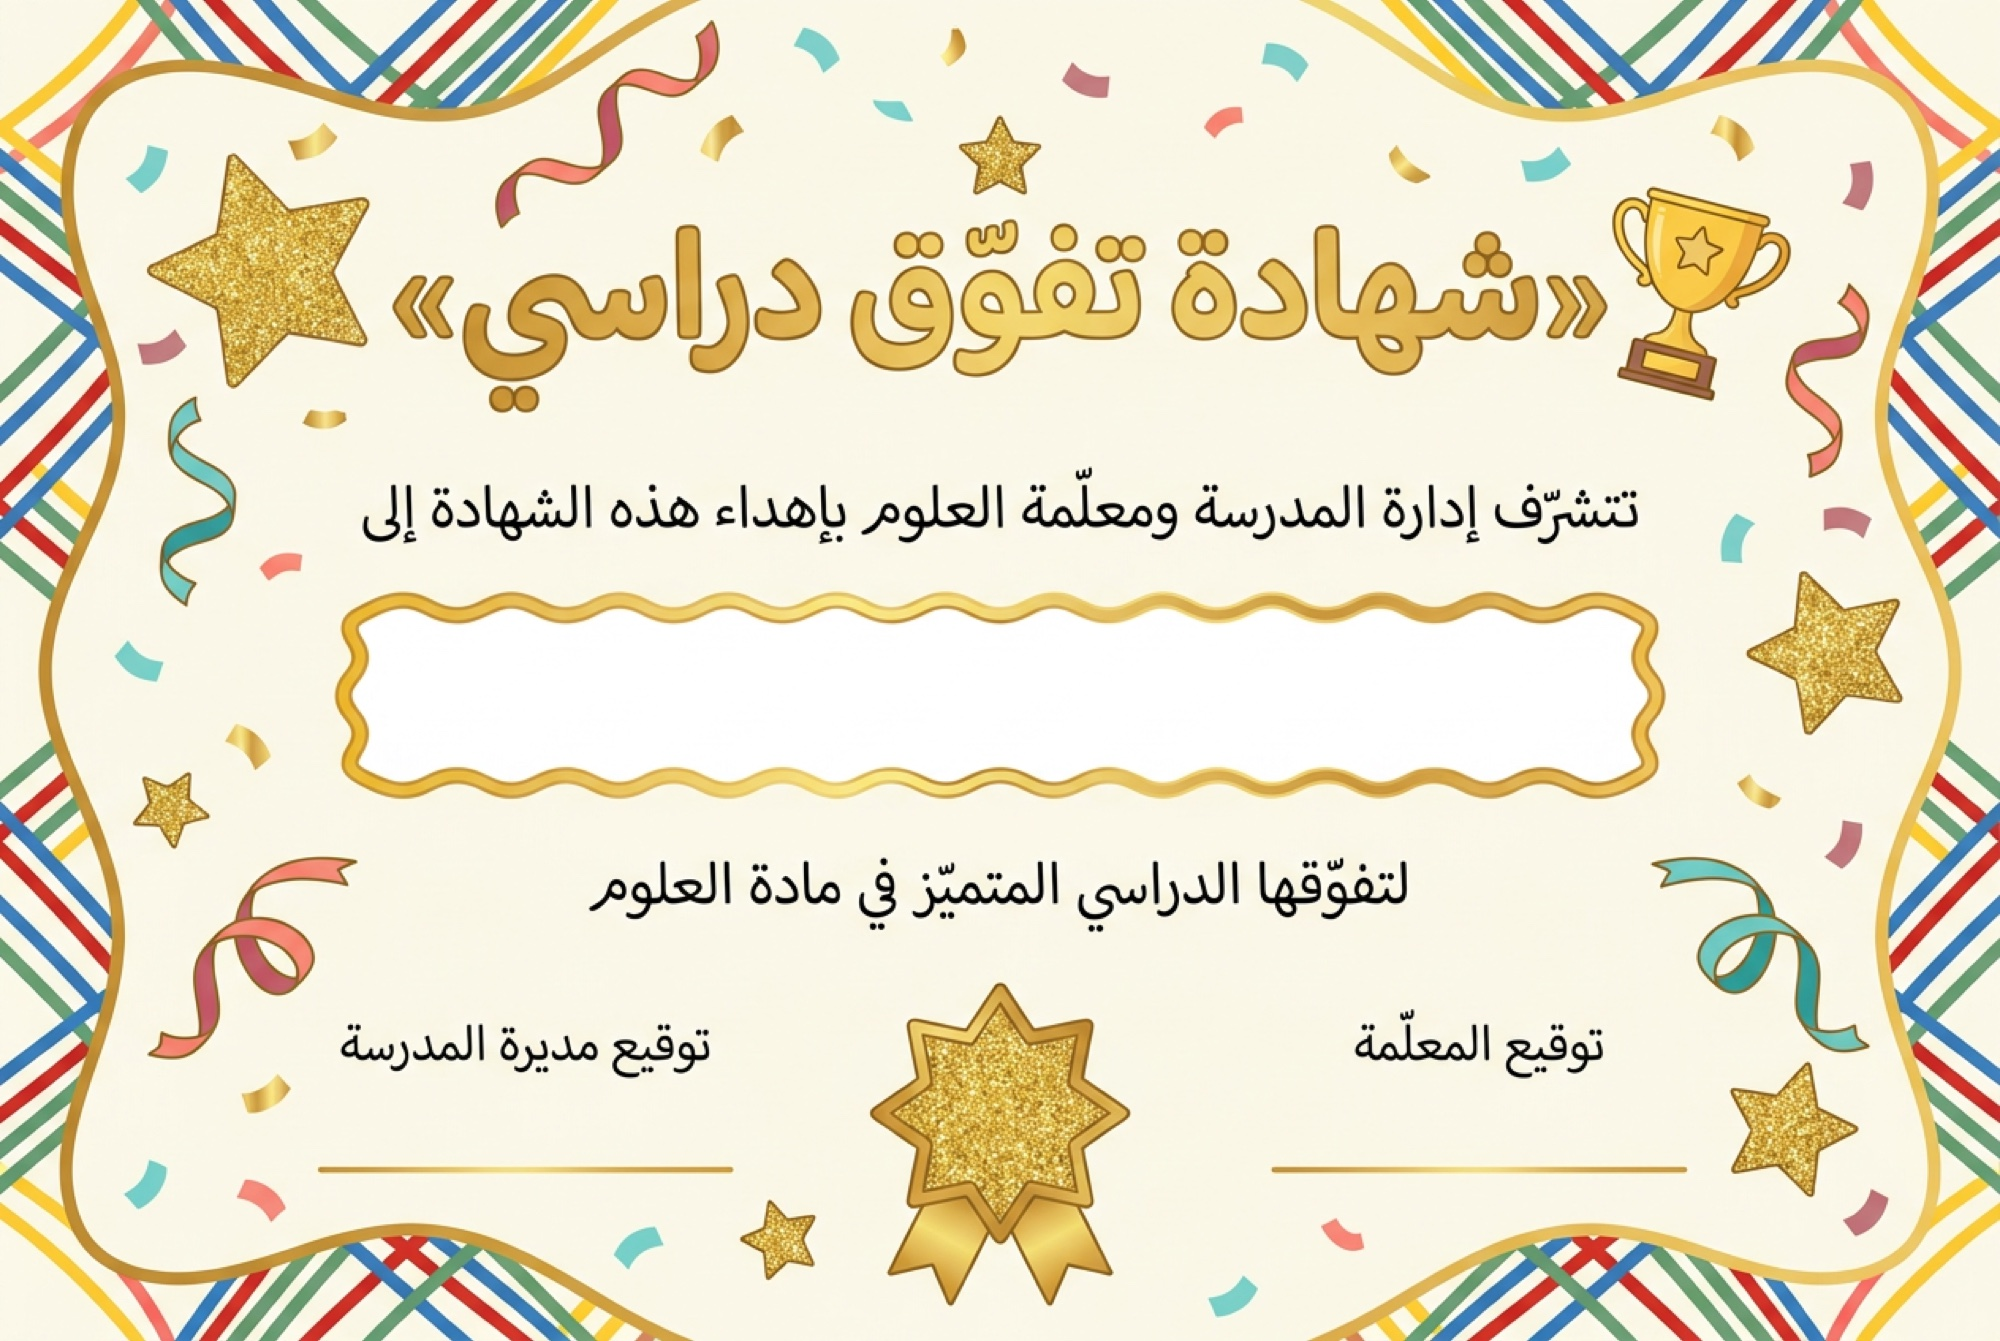
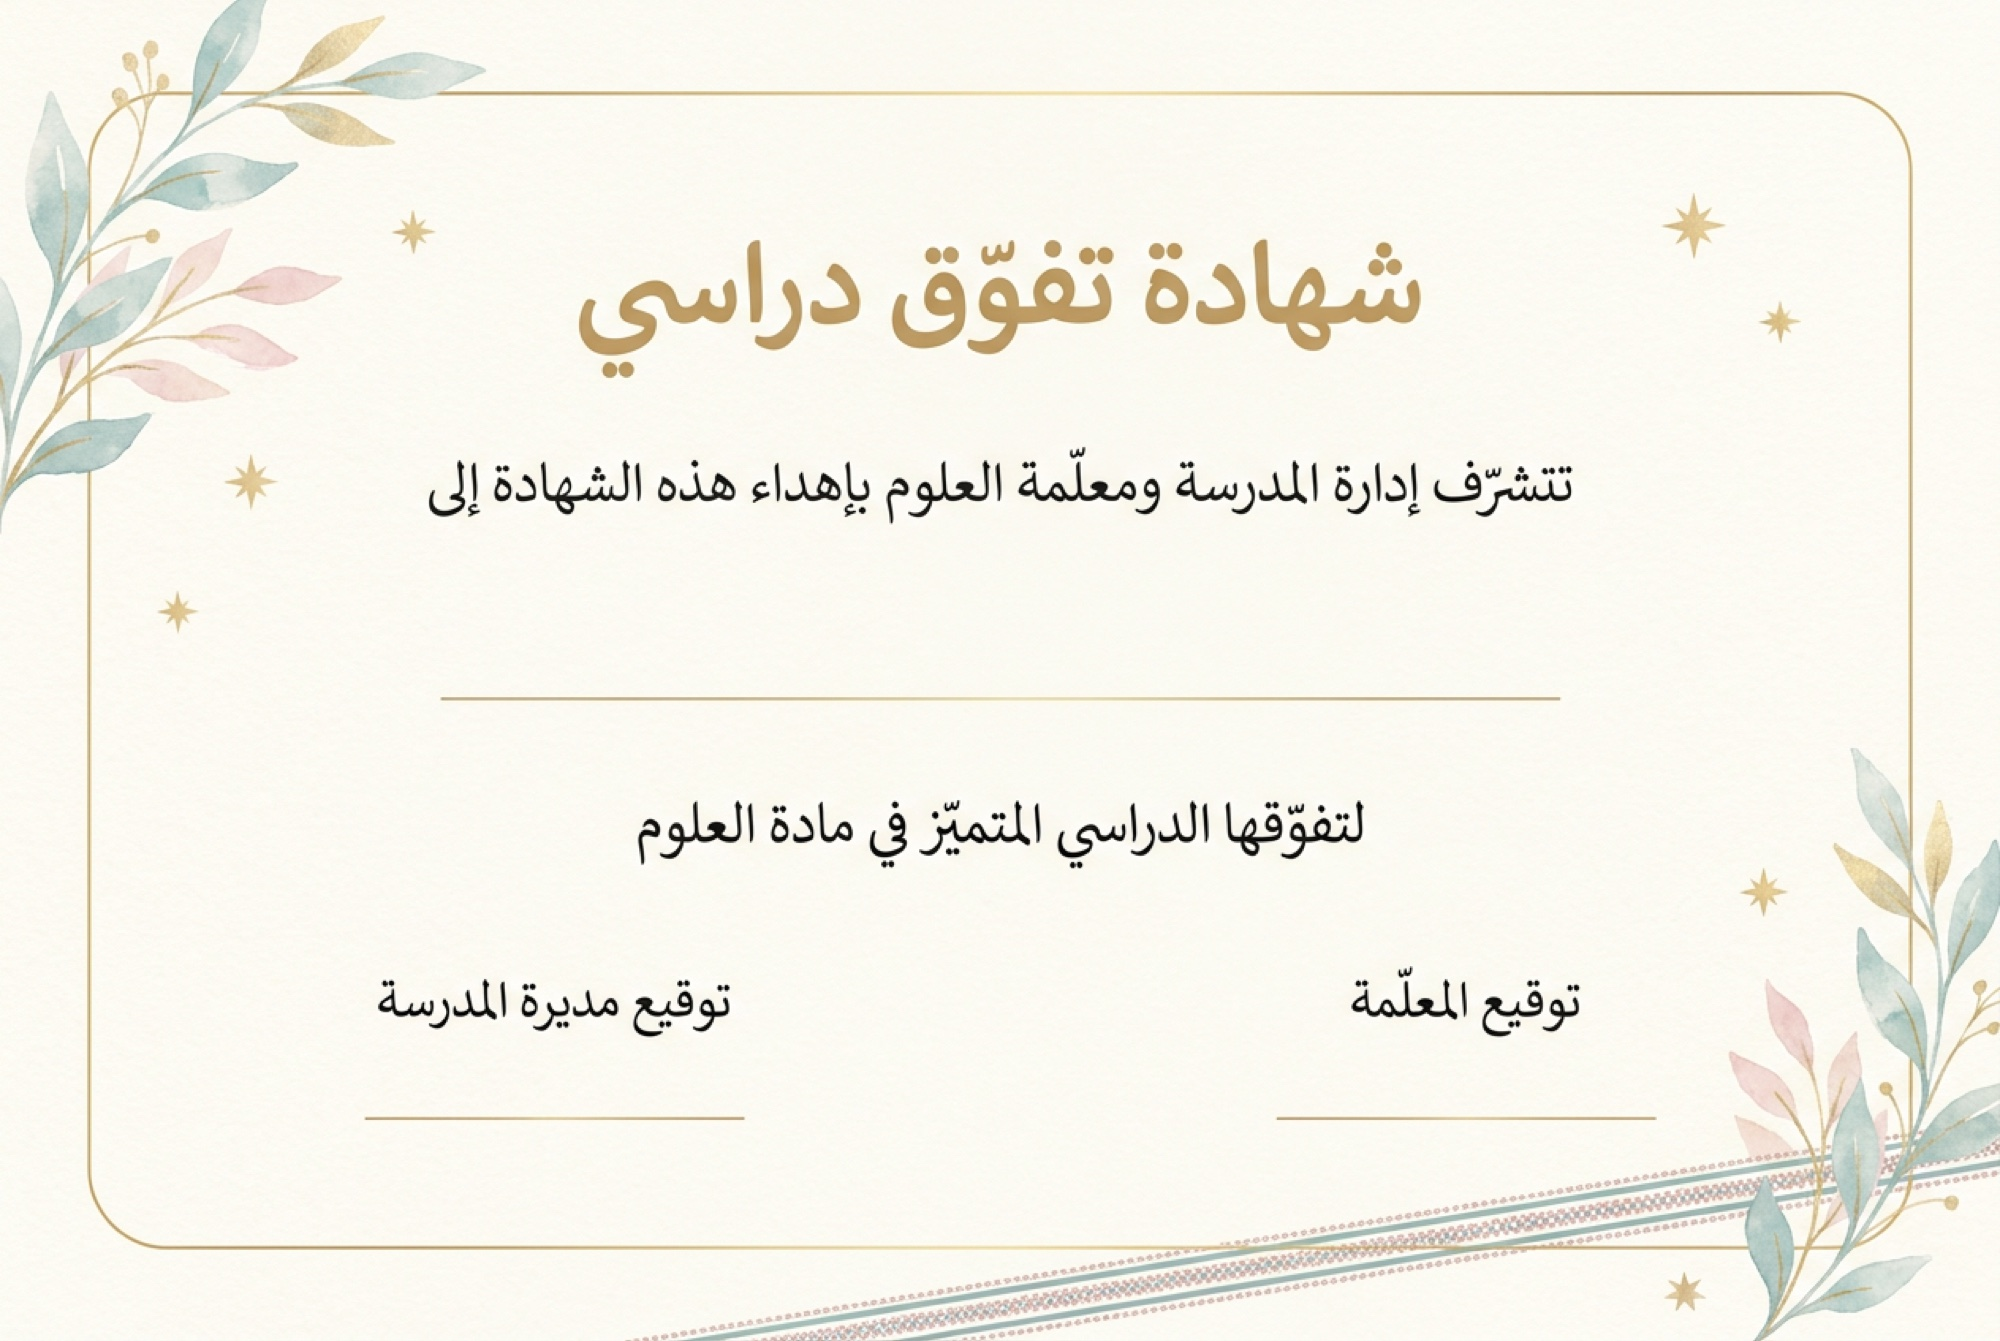
الاتجاه النهائي للشهادات: عائلة «كتب الأطفال الهادئة» — خمس لوحات مرسومة بالكامل بأغصان مائية وذهب رقيق، اسم ذهبي مطفي فوق سطر الإهداء، ودمج ضربي للشعارات بلا رقع

diff --git a/src/lib/certificates.ts b/src/lib/certificates.ts
@@ -107,18 +107,18 @@ interface MasterCal {
   marksTop: number; marksH: number;
 }
 const MASTER_CAL_DEFAULT: MasterCal = {
-  nameTop: 44.5, nameH: 13,
-  dateTop: 66,
-  teacherTop: 76.5, teacherRight: 13, teacherW: 22,
-  serialTop: 92,
-  marksTop: 10.5, marksH: 7,
+  nameTop: 40, nameH: 11.5,
+  dateTop: 65,
+  teacherTop: 78, teacherRight: 9, teacherW: 22,
+  serialTop: 91.5,
+  marksTop: 5.5, marksH: 5.5,
 };
 const MASTER_CAL: Record<string, Partial<MasterCal>> = {
-  excellence: { nameTop: 45, nameH: 13, dateTop: 69.5, teacherTop: 80.5, teacherRight: 9, teacherW: 22, serialTop: 91.5, marksTop: 6.5, marksH: 6 },
-  star_of_month: { nameTop: 49.5, nameH: 11, dateTop: 71.5, teacherTop: 80, teacherRight: 9, teacherW: 22, serialTop: 94, marksTop: 7.5, marksH: 6 },
-  most_improved: { nameTop: 45, nameH: 13.5, dateTop: 66.5, teacherTop: 81, teacherRight: 7, teacherW: 22, serialTop: 91.5, marksTop: 6.5, marksH: 6 },
-  best_experiment: { nameTop: 45, nameH: 12, dateTop: 66.5, teacherTop: 81, teacherRight: 9, teacherW: 22, serialTop: 91, marksTop: 8, marksH: 6 },
-  guardian_thanks: { nameTop: 44, dateTop: 67.5, teacherTop: 76.5, teacherRight: 10, teacherW: 22, serialTop: 90, marksTop: 8, marksH: 6 },
+  excellence: {},
+  star_of_month: { nameTop: 43.5, dateTop: 66 },
+  most_improved: {},
+  best_experiment: { nameTop: 41.5, dateTop: 68, teacherTop: 81 },
+  guardian_thanks: {},
 };
 
 const escC = (s: string) => s.replace(/[&<>"]/g, (x) => ({ "&": "&amp;", "<": "&lt;", ">": "&gt;", '"': "&quot;" })[x]!);
@@ -263,18 +263,14 @@ const CERT_CSS = `
   .serial { font-family: "Tajawal", sans-serif; font-size: 8.5pt; color: #6B5B4A; direction: ltr; }
 
   /* ═══ نموذج «لوحة المصمم»: الماستر المرسوم + تركيب مدموج (§ قواعد عبد الله) ═══ */
-  /* اللوجو على رقعة بلون الورق بحواف مموّهة — يبدو مطبوعاً في اللوحة لا ملصقاً */
-  .d-designer .m-markwrap { position: absolute; display: flex; align-items: center; justify-content: center;
-    background: #FAF4E6; border-radius: 3mm; padding: 1mm 2.5mm;
-    box-shadow: 0 0 3.5mm 2.5mm #FAF4E6; }
-  .d-designer .m-mark { height: 100%; object-fit: contain; mix-blend-mode: multiply; }
+  /* اللوجو مطبوع في الورق مباشرة — دمج ضربي بلا أي رقعة */
+  .d-designer .m-markwrap { position: absolute; display: flex; align-items: center; justify-content: center; }
+  .d-designer .m-mark { height: 100%; object-fit: contain; mix-blend-mode: multiply; opacity: 0.92; }
   /* اسم الطالبة بحروف ذهبية متدرجة كأنها مرسومة مع حروف اللوحة */
-  .d-designer .m-name { position: absolute; left: 16%; right: 16%;
-    display: flex; align-items: center; justify-content: center;
-    font-family: "Baloo", "Cairo", sans-serif; font-weight: 800; font-size: 30pt; line-height: 1.3;
-    background: linear-gradient(178deg, #E9C468 8%, #C89A38 48%, #A2771F 92%);
-    -webkit-background-clip: text; background-clip: text; color: transparent;
-    filter: drop-shadow(0 0.35mm 0.3mm rgba(97,66,12,.4)); }
+  .d-designer .m-name { position: absolute; left: 18%; right: 18%;
+    display: flex; align-items: flex-end; justify-content: center; padding-bottom: 1mm;
+    font-family: "Baloo", "Cairo", sans-serif; font-weight: 800; font-size: 27pt; line-height: 1.3;
+    color: #97782B; }
   .d-designer .m-date { position: absolute; left: 0; right: 0; text-align: center;
     font-family: "Tajawal", sans-serif; font-size: 10.5pt; font-weight: 500; color: #7A6A55; }
   /* توقيع المعلّمة بخط الرقعة — إمضاءة حقيقية مائلة فوق السطر */
